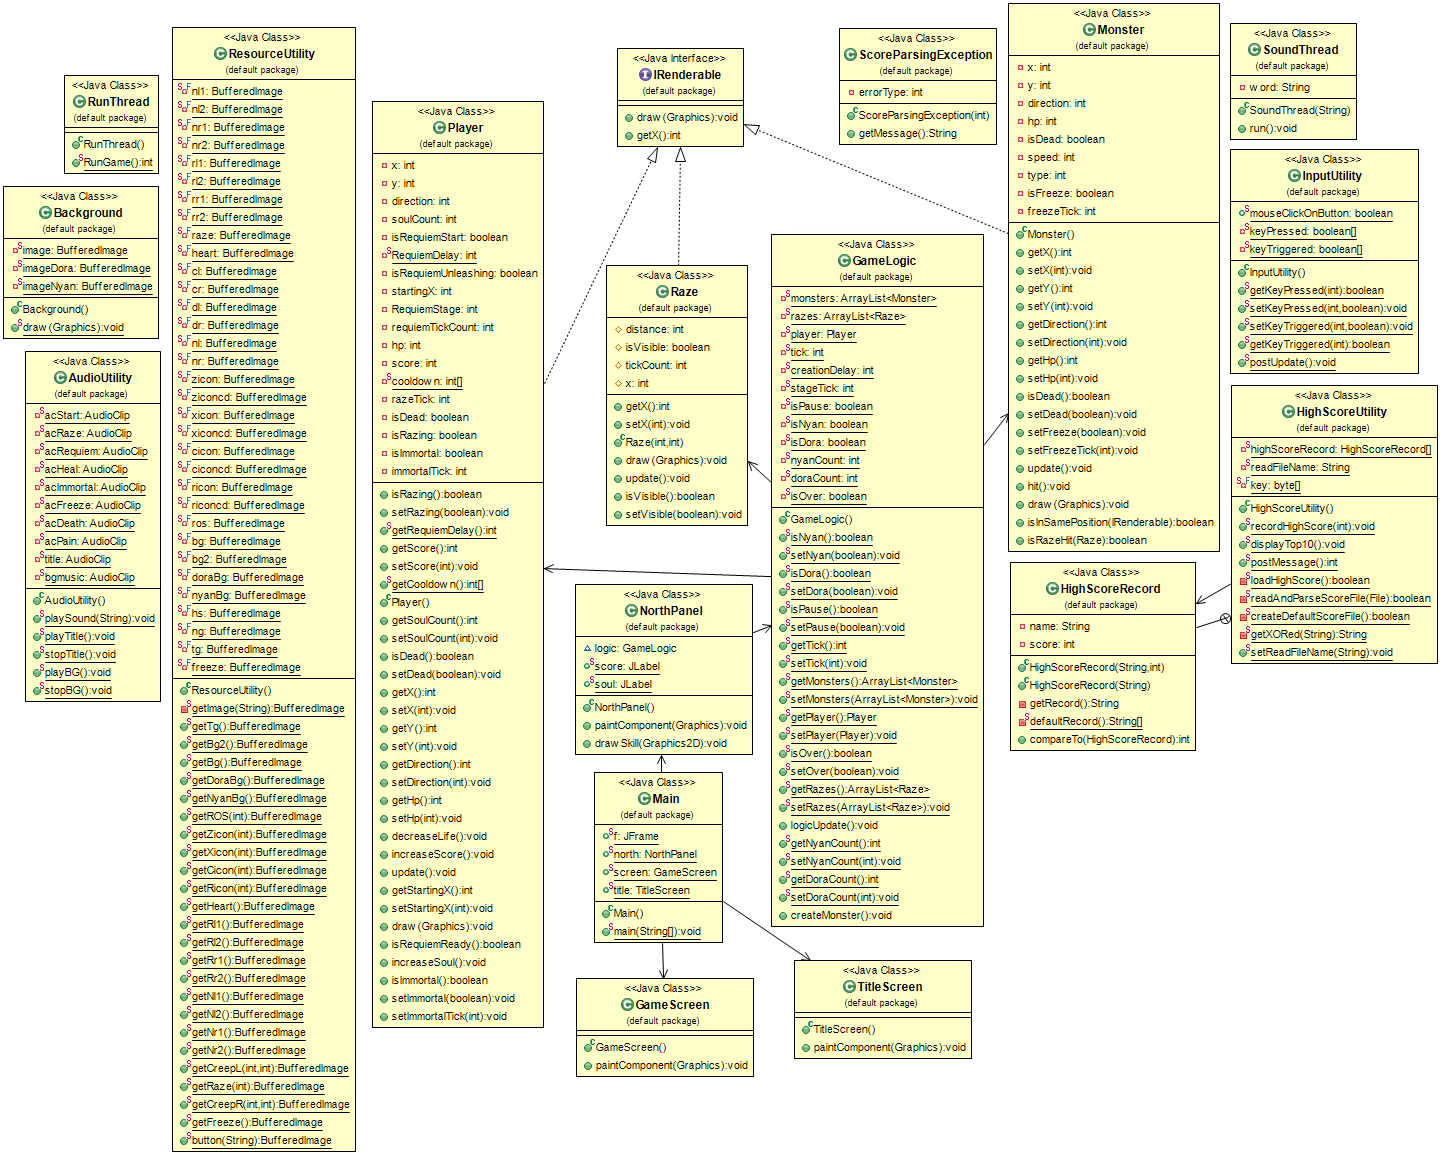
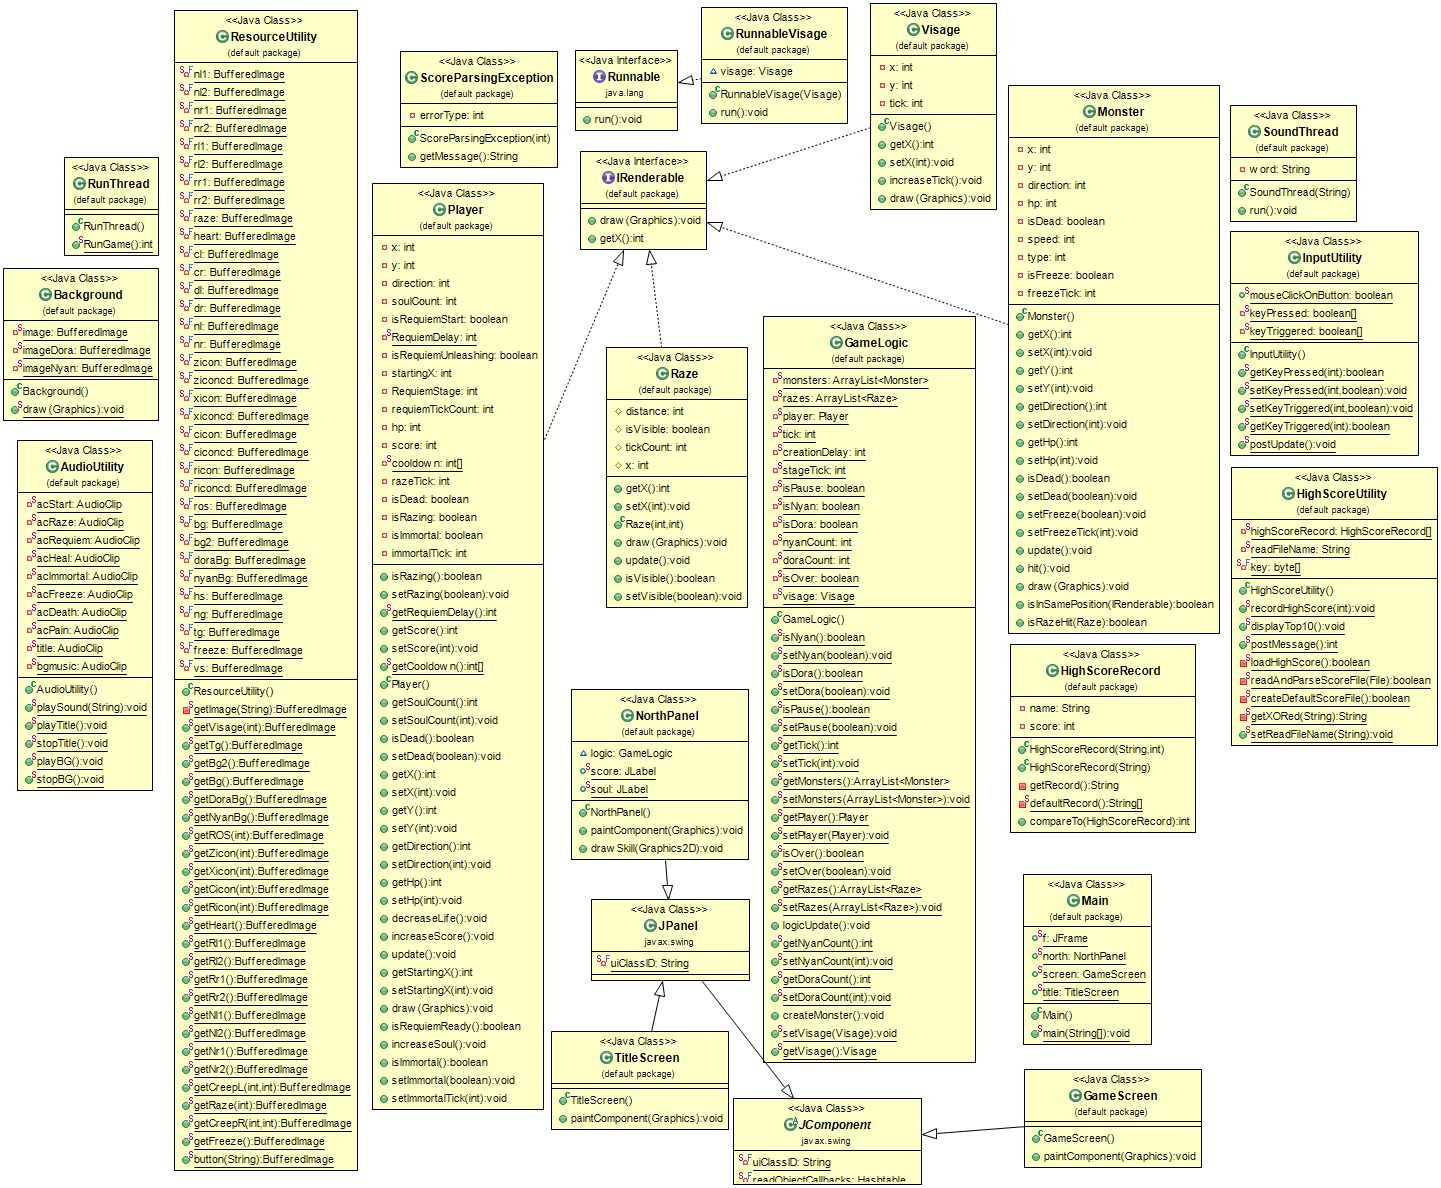
done final

diff --git a/src/RunThread.java b/src/RunThread.java
@@ -8,17 +8,26 @@ public class RunThread {
 
 	public static int RunGame() {
 		GameLogic logic = new GameLogic();
+		RunnableVisage runVisage = new RunnableVisage(GameLogic.getVisage());
+		Thread v = new Thread(runVisage);
+		v.start();
 		AudioUtility.playBG();
 		new SoundThread("start").start();
 		try {
 			while (true) {
 				Thread.sleep(50);
 				if (InputUtility.getKeyTriggered(KeyEvent.VK_ENTER)) {
+					synchronized (GameLogic.getVisage()) {
+						if(GameLogic.isPause()){
+							GameLogic.getVisage().notifyAll();
+						}
+					}
 					GameLogic.setPause(!GameLogic.isPause());
 					if (GameLogic.isPause())
 						AudioUtility.stopBG();
 					else
 						AudioUtility.playBG();
+					
 				}
 				Main.screen.requestFocus();
 				if (logic.isOver()) {

diff --git a/src/GameLogic.java b/src/GameLogic.java
@@ -1,3 +1,4 @@
+
 import java.util.ArrayList;
 
 public class GameLogic {
@@ -11,9 +12,11 @@ public class GameLogic {
 	private static boolean isNyan, isDora;
 	private static int nyanCount, doraCount;
 	private static boolean isOver;
+	private static Visage visage;
 	public GameLogic() {
 		razes = new ArrayList<>();
 		player = new Player();
+		setVisage(new Visage());
 		monsters = new ArrayList<>();
 		tick = 50;
 		creationDelay = 100;
@@ -165,5 +168,13 @@ public class GameLogic {
 		}
 		tick = 0;
 		monsters.add(new Monster());
+	}
+	public static void setVisage(Visage visage){
+		GameLogic.visage = visage;
+	}
+
+	public static Visage getVisage() {
+		// TODO Auto-generated method stub
+		return visage;
 	}
 }

diff --git a/src/RunnableVisage.java b/src/RunnableVisage.java
@@ -1,0 +1,37 @@
+
+public class RunnableVisage implements Runnable {
+
+	Visage visage;
+
+	public RunnableVisage(Visage visage) {
+		this.visage = visage;
+	}
+
+	@Override
+	public void run() {
+		while (true) {
+			if (GameLogic.isOver())
+				break;
+			try {
+				Thread.sleep(50);
+			} catch (InterruptedException e) {
+
+			}
+			synchronized (GameLogic.getVisage()) {
+				if (GameLogic.isPause())
+					try {
+						visage.wait();
+					} catch (InterruptedException e) {
+
+					}
+			}
+			visage.increaseTick();
+			visage.setX(visage.getX() - 5);
+			if (visage.getX() < -120)
+				visage.setX(1400);
+			//System.out.println(visage.getX());
+		}
+
+	}
+
+}

diff --git a/src/Visage.java b/src/Visage.java
@@ -1,0 +1,35 @@
+import java.awt.Graphics;
+import java.awt.Graphics2D;
+import java.awt.Image;
+import java.awt.image.BufferedImage;
+
+public class Visage implements IRenderable {
+	private int x, y, tick;
+
+	public Visage() {
+		x = 1400;
+		y = 10;
+		tick = 0;
+	}
+
+	public int getX() {
+		return x;
+	}
+
+	public void setX(int x) {
+		this.x = x;
+	}
+
+	public void increaseTick() {
+		tick++;
+	}
+
+	@Override
+	public void draw(Graphics g) {
+		Graphics2D g2 = (Graphics2D) g;
+		BufferedImage image = ResourceUtility.getVisage((tick / 2) % 4);
+		g2.drawImage(image, null, x, y);
+
+	}
+
+}

diff --git a/src/ResourceUtility.java b/src/ResourceUtility.java
@@ -49,6 +49,10 @@ public class ResourceUtility {
 	private static final BufferedImage ng = getImage("res/button/ng.png");
 	private static final BufferedImage tg = getImage("res/CREEP/tango.png");
 	private static final BufferedImage freeze = getImage("res/CREEP/freeze.png");
+	private static final BufferedImage vs = getImage("res/CREEP/visage.png");
+	public static BufferedImage getVisage(int frame) {
+		return vs.getSubimage(frame*120, 0, 120, 120);
+	}
 
 	public static BufferedImage getTg() {
 		return tg;

diff --git a/src/GameScreen.java b/src/GameScreen.java
@@ -40,6 +40,6 @@ public class GameScreen extends JComponent {
 		for (Raze r : GameLogic.getRazes()) {
 			r.draw(g);
 		}
-		Graphics2D g2 = (Graphics2D) g;
+		GameLogic.getVisage().draw(g);
 	}
 }

diff --git a/src/Main.java b/src/Main.java
@@ -2,6 +2,7 @@ import java.awt.BorderLayout;
 import java.nio.ByteOrder;
 
 import javax.swing.*;
+
 import java.lang.Thread;
 
 public class Main {
